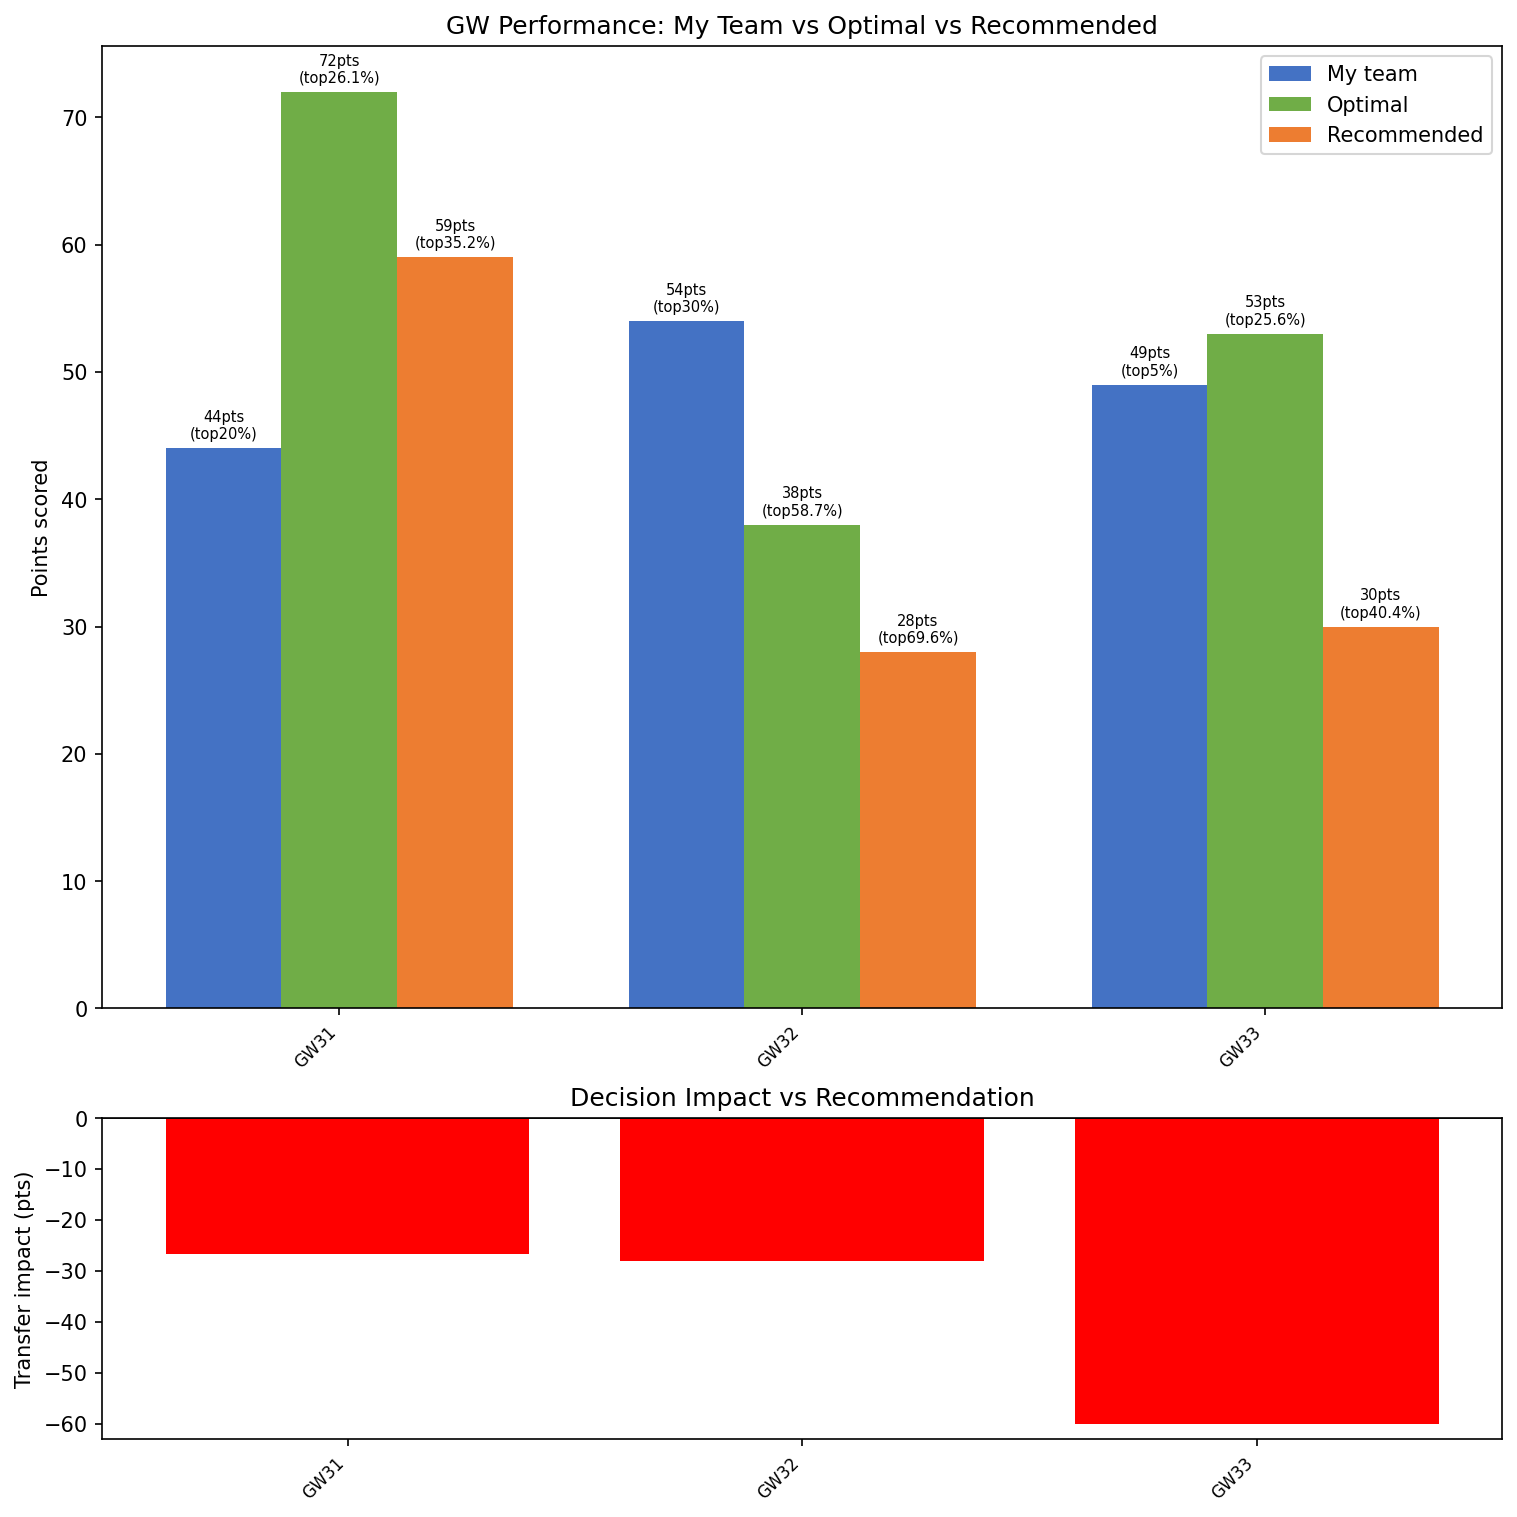
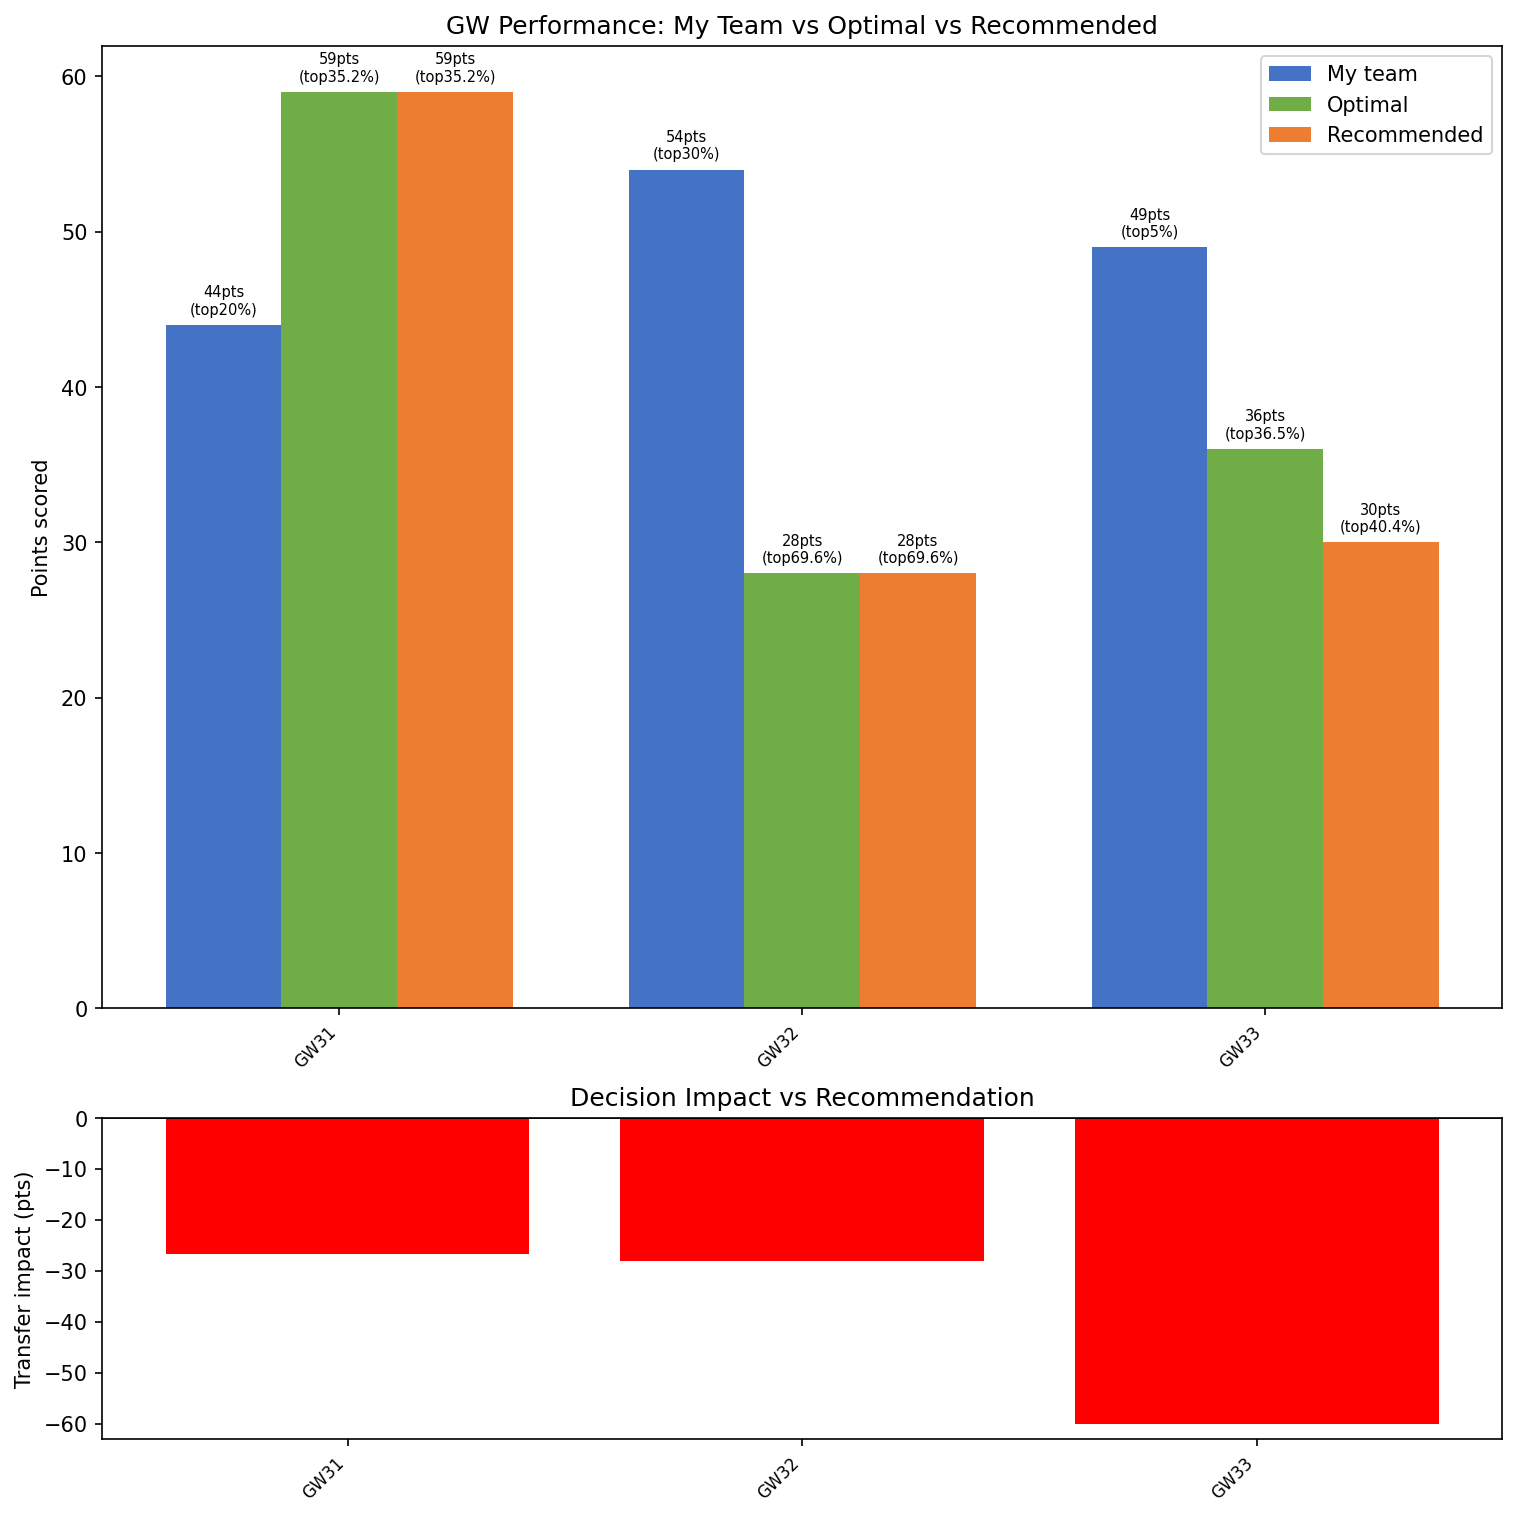
fix: wildcard_pts uses XI starters + captain 2x, not full 15-player sum; backfill gw31-33

diff --git a/src/pipeline/run.py b/src/pipeline/run.py
@@ -668,17 +668,17 @@ def phase_post_gw():
         your_percentile_rank=your_percentile_rank, misses=misses,
     ))
 
-    # Wildcard baseline: full 15-player optimizer squad summed against live data.
-    # Intentionally the full squad (not just XI) so it reflects bench-boost potential.
+    # Wildcard baseline: optimal squad XI only, captain 2× — comparable to your_pts/recommended_pts.
     wildcard_pts = None
     wildcard_xp = None
     squad_path = _post_gw_dir / "optimal_squad.csv"
-    if squad_path.exists() and not live_df.empty:
-        squad_df = pd.read_csv(squad_path)
+    if not live_df.empty:
         actual_map_wc = live_df.set_index("element")["total_points"].to_dict()
-        squad_df["actual_points"] = squad_df["element"].map(actual_map_wc).fillna(0)
-        wildcard_pts = int(squad_df["actual_points"].sum())
-        wildcard_xp = float(squad_df["xP"].sum()) if "xP" in squad_df.columns else None
+        wildcard_pts = _score_recommended_squad(squad_path, actual_map_wc)
+        if squad_path.exists():
+            squad_df = pd.read_csv(squad_path)
+            starters_wc = squad_df[squad_df["is_starter"] == True]
+            wildcard_xp = float(starters_wc["xP"].sum()) if "xP" in starters_wc.columns else None
 
     # Write accuracy log
     log_path = RESULTS_DIR / "accuracy_log.csv"

diff --git a/tests/test_run_squad_csv.py b/tests/test_run_squad_csv.py
@@ -119,6 +119,21 @@ def test_recommended_pts_returns_none_when_file_missing(tmp_path):
     assert pts is None
 
 
+def test_wildcard_pts_uses_starters_only_with_captain_multiplier(tmp_path):
+    """wildcard_pts must use same logic as recommended_pts: starters only, captain 2×."""
+    from src.pipeline.run import _score_recommended_squad
+    # optimal_squad.csv has same schema as recommended_squad.csv
+    opt_path = _make_recommended_squad_csv(tmp_path)
+    # rename so it reads as optimal_squad.csv (same function, different caller)
+    import shutil
+    opt_squad = tmp_path / "optimal_squad.csv"
+    shutil.copy(opt_path, opt_squad)
+    live_map = {1: 10, 2: 8, 3: 99}  # bench player excluded
+    pts = _score_recommended_squad(opt_squad, live_map)
+    # Salah (captain): 10 × 2 = 20; Saka: 8; Flekken excluded
+    assert pts == 28
+
+
 def test_post_gw_skips_actual_squad_when_gw_not_finished():
     """phase_post_gw must not write actual_squad.csv if bootstrap says finished=False."""
     from src.pipeline.run import _gw_is_finished
